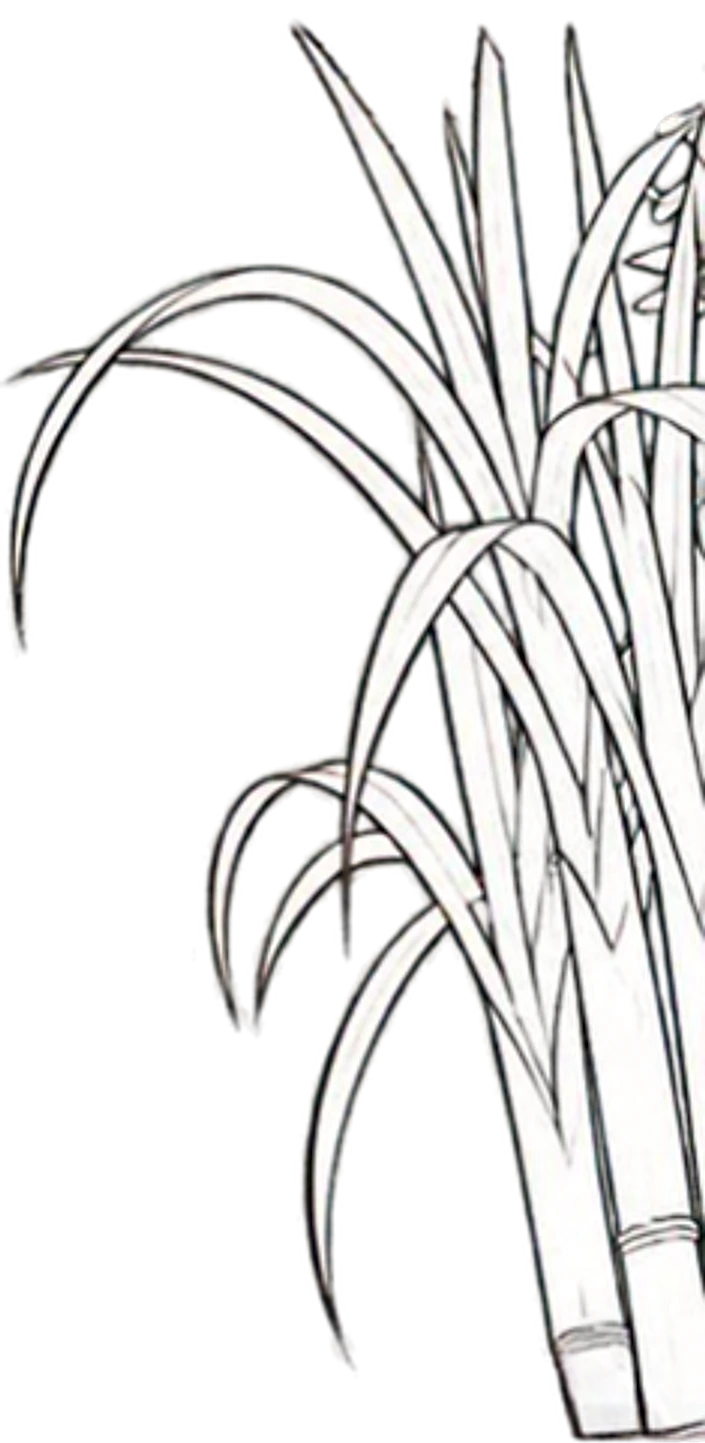
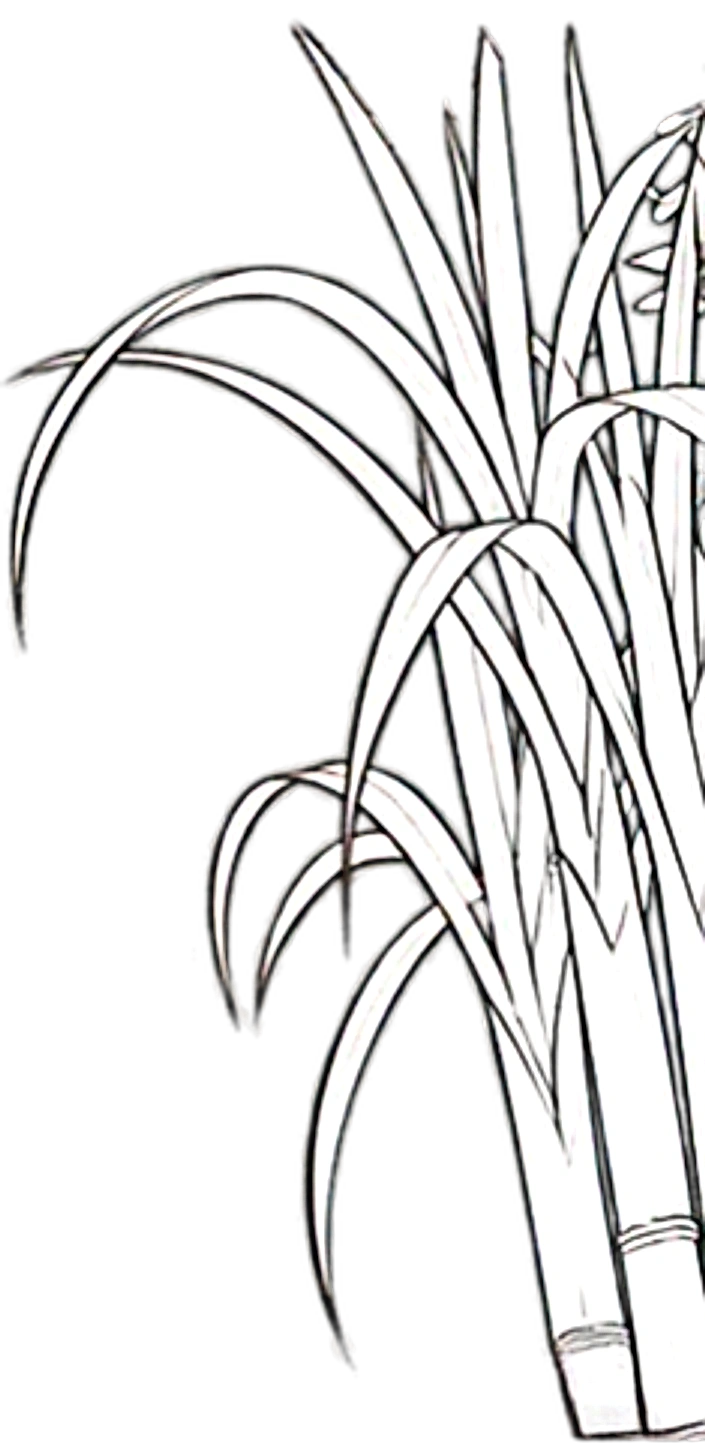
ggp

diff --git a/src/components/Hero.tsx b/src/components/Hero.tsx
@@ -30,7 +30,7 @@ export function Hero({ rawScroll, smoothScroll, episodes }: HeroProps) {
   const pv = (mv: MotionValue<number>) => (prefersReduced ? undefined : mv);
 
   return (
-    <div className="relative h-screen w-full overflow-hidden bg-[#067e7d]">
+    <div className="relative h-svh w-full overflow-hidden bg-[#067e7d]">
       {/* Flat brand ground */}
       <div className="absolute inset-0 z-0 bg-[#067e7d]" />
 
@@ -38,7 +38,7 @@ export function Hero({ rawScroll, smoothScroll, episodes }: HeroProps) {
       <div className="relative z-10 h-full w-full max-w-7xl mx-auto flex flex-col lg:flex-row items-center justify-center lg:justify-start px-6 md:px-12 overflow-visible">
 
         {/* Text Section: High-contrast white typography with crisp drop shadows */}
-        <div className="relative z-20 flex flex-col items-center lg:items-start text-center lg:text-left pt-16 lg:pt-0 w-full lg:max-w-3xl">
+        <div className="relative z-20 flex flex-col items-center lg:items-start text-center lg:text-left w-full lg:max-w-3xl">
           {/* Brand Heading (Logo inverted to pure white across all devices) */}
           <h1 className="mb-3 lg:mb-6">
             <Image
@@ -81,12 +81,13 @@ export function Hero({ rawScroll, smoothScroll, episodes }: HeroProps) {
 
       </div>
 
-      {/* Foreground: three plants along the bottom edge — hemp bottom left, sugarcane and
-          mushrooms together in the bottom right. Small enough to read as a border, so the
-          headline and the episode card keep the whole middle of the frame. */}
+      {/* Foreground: three plants along the bottom edge — hemp grounded at bottom left,
+          sugarcane and mushrooms together in the bottom right. Small enough to read as a
+          border, so the headline and the episode card keep the whole middle of the frame.
+          Sits behind every white element — logo, headline, buttons, card. */}
       <motion.div
         style={{ opacity: prefersReduced ? 1 : sceneOpacity }}
-        className="pointer-events-none absolute inset-0 z-[6] overflow-hidden"
+        className="pointer-events-none absolute inset-0 z-[1] overflow-hidden"
       >
         {/* eslint-disable @next/next/no-img-element -- line art with its own alpha, already the
             size it renders at. next/image would re-encode drawings that have nothing left to
@@ -94,18 +95,18 @@ export function Hero({ rawScroll, smoothScroll, episodes }: HeroProps) {
         {/* Sugarcane, bottom right: stood on the floor of the frame with its tips running
             off the right edge rather than hanging from the top. */}
         <motion.div style={{ y: pv(yCane) }} className="absolute inset-0">
-          <img src="/images/hero/frame/cane.webp" alt="" className="absolute -bottom-[2%] right-[-8%] sm:right-[-4%] lg:right-0 h-[44%] sm:h-[40%] lg:h-[52%] w-auto max-w-none" />
+          <img src="/images/hero/frame/cane.webp" alt="" className="absolute bottom-[12%] sm:bottom-[8%] right-[-8%] sm:right-[-4%] lg:right-0 h-[44%] sm:h-[40%] lg:h-[52%] w-auto max-w-none" />
         </motion.div>
 
         {/* Hemp, bottom left */}
         <motion.div style={{ y: pv(yHemp) }} className="absolute inset-0">
-          <img src="/images/hero/frame/hemp.webp" alt="" loading="lazy" className="absolute -bottom-[2%] left-[-8%] sm:left-[-3%] lg:left-0 h-[28%] sm:h-[26%] lg:h-[32%] w-auto max-w-none" />
+          <img src="/images/hero/frame/hemp.webp" alt="" loading="lazy" className="absolute bottom-[4%] sm:-bottom-[2%] left-0 h-[30%] sm:h-[32%] lg:h-[40%] w-auto max-w-none" />
         </motion.div>
 
         {/* Mushrooms, bottom right and nearest the viewer: they rise fastest and grow. Sat at
             the foot of the cane, so the right corner reads as one clump front to back. */}
         <motion.div style={{ y: pv(yMush), scale: pv(sMush) }} className="absolute inset-x-0 bottom-0 origin-bottom">
-          <img src="/images/hero/frame/mushrooms.webp" alt="" loading="lazy" className="absolute -bottom-[1%] right-[1%] sm:right-[2%] lg:right-[3%] w-[28%] sm:w-[15%] lg:w-[11%] h-auto" />
+          <img src="/images/hero/frame/mushrooms.webp" alt="" loading="lazy" className="absolute bottom-[13%] sm:bottom-[9%] right-[1%] sm:right-[2%] lg:right-[3%] w-[28%] sm:w-[15%] lg:w-[11%] h-auto" />
         </motion.div>
       </motion.div>
 

diff --git a/src/app/HomeClient.tsx b/src/app/HomeClient.tsx
@@ -24,7 +24,9 @@ export function HomeClient({ episodes }: { episodes: Episode[] }) {
   return (
     <div className="bg-background relative">
       {/* 1. Hero Layer: fixed slide-over on every breakpoint — content scrolls up over it */}
-      <div className="fixed inset-0 h-screen w-full z-0 lg:pointer-events-none">
+      {/* svh, not vh: on a phone the browser toolbar covers the bottom of a 100vh box, and that
+          is exactly where the hero plants stand. svh is the height that is always visible. */}
+      <div className="fixed inset-0 h-svh w-full z-0 lg:pointer-events-none">
         <Hero
           rawScroll={rawScroll}
           smoothScroll={smoothScroll}
@@ -33,7 +35,7 @@ export function HomeClient({ episodes }: { episodes: Episode[] }) {
       </div>
 
       {/* 2. Content Stack: starts one screen down, then slides over the fixed Hero */}
-      <div className="relative z-10 mt-[100vh]">
+      <div className="relative z-10 mt-[100svh]">
         {/* The sections now slide directly over the fixed Hero */}
         <LatestEpisode latest={latest} />
         <ScrollingMarquee />

diff --git a/scripts/hero-frame.js b/scripts/hero-frame.js
@@ -16,9 +16,9 @@ const SCALE = 3;
     const { width, height } = await img.metadata();
     const info = await img
       .resize(width * SCALE, height * SCALE, { kernel: 'lanczos3' })
-      // sigma ~1.2 suits line art: tightens the stroke edge without ringing the flat fills
-      .sharpen({ sigma: 1.2, m1: 0.6, m2: 2.2 })
-      .webp({ quality: 90, alphaQuality: 100 })
+      .sharpen({ sigma: 1.8, m1: 1.8, m2: 4.5 })
+      .linear(1.08, -8)
+      .webp({ quality: 95, alphaQuality: 100 })
       .toFile(OUT + name + '.webp');
     console.log(name, info.width + 'x' + info.height, Math.round(info.size / 1024) + 'KB');
   }

diff --git a/CHANGELOG.md b/CHANGELOG.md
@@ -50,9 +50,6 @@ Absolute dates (`YYYY-MM-DD`), 24-hour local time (`HH:MM`, IST), never
 | 2026-09-15 | 16:35 | deploy | Hero foreground shipped to production: pushed 91e4744 + 3238845 to main, Vercel git integration builds prj_Hgk9YVPBmDzRWAipd06y2n8WqgMW | Asmita asked to deploy | Claude | Live site; also carried Asmita's pending contact-copy and navbar-dot edits | 3238845 |
 | 2026-09-15 | 16:50 | episodes | Every YouTube thumbnail frame set to aspect-video: latest-episode section (was aspect-video lg:4/3), hero latest card and archive cards (both 16/10) | Asmita: thumbnails should be sized as YouTube thumbnails; 4/3 and 16/10 frames cropped a 16:9 source | Claude | LatestEpisode.tsx, ui/LatestPodcastCard.tsx, episodes/EpisodesClient.tsx | - |
 | 2026-09-16 | 12:30 | theme | Hero section background updated from #012620 to #038f90; removed painted Ghibli countryside image from PageHero and CollaborationCTA and set solid #038f90 | Asmita: use #038f90 as hero bg and remove the landscape image everywhere | Antigravity | - | `Hero.tsx`, `PageHero.tsx`, `CollaborationCTA.tsx` |
-
-
-
 | 2026-09-16 | 11:05 | hero | Generated grass.svg deleted and replaced by the supplied seaweed clump tiled along the bottom (14/17vh); a hemp bouquet added beside each sugarcane | Asmita supplied hemp and seaweed artwork and asked for seaweed in place of grass, hemp at the sides | Claude | Hero.tsx; also removed tropical_red/tropical_yellow/foliage_clump, byte-identical copies of the same three images | Hero.tsx |
 | 2026-09-16 | 11:20 | hero | Desktop sugarcane pushed out by 22% of its own width instead of sitting flush at left-0/right-0 | Asmita: canes not in the corner on desktop. The art has no transparent padding, but each stalk base sits 42-58% across its image, so flush placement left the trunk ~180px inside the edge | Claude | Hero.tsx; mobile shift unchanged at 50% | Hero.tsx |
 | 2026-09-16 | 11:30 | hero | Hemp bouquets moved into the corners with the cane: inset 6%/11% down to 1%/3% | Asmita: hemp should sit together with the sugarcane. After the cane moved out by 22%, hemp at 11% stood between it and the headline | Claude | Hero.tsx | Hero.tsx |
@@ -63,16 +60,13 @@ Absolute dates (`YYYY-MM-DD`), 24-hour local time (`HH:MM`, IST), never
 | 2026-09-16 | 12:25 | hero | Hemp wedged into the bottom corners: bottom 7/9vh to -2/-3vh, sides 1%/3% to -3%/-2%, so both edges crop it | Asmita: put the hemps in the lower edges, very stuck | Claude | Hero.tsx | Hero.tsx |
 | 2026-09-16 | 12:40 | deploy | Pushed 9a04e39 (seaweed + hemp hero) and 0aa269a (flat teal page headers and open call) to main; Vercel builds production | Asmita asked to deploy | Claude | Live site | 0aa269a |
 | 2026-09-16 | 15:25 | hero | Removed trust strip ("Sponsored by Pakka • 117 Episodes • YouTube · Spotify · Apple") below hero CTA buttons | Asmita: remove the trust strip | Antigravity | - | `Hero.tsx` |
-
 | 2026-09-16 | 13:10 | hero | Foreground cut back to the reference composition: hemp bouquets removed, seaweed top edge faded into the background, cane sway slowed to 11/12.5s at under one degree | Asmita: the foreground reads cluttery. Six competing objects at four sway speeds, and tropical red/yellow bouquets in a two-tone green scene | Claude | Hero.tsx; hemp art left in place, unreferenced | Hero.tsx |
 | 2026-09-16 | 15:35 | hero | Foreground art redrawn in-house: cane_a/cane_b, reeds and flock SVGs replace the supplied PNGs, generator kept at scripts/hero-art.js | Asmita: same layout, source the images yourself. SVG holds the exact palette, keeps real alpha and tiles seamlessly | Claude | Hero.tsx; supplied PNGs left in place, now unreferenced; bed back to a single layer | scripts/hero-art.js |
 | 2026-09-16 | 15:50 | hero | Declutter pass reverted: hemp back in both corners in front of the reed bed, cane sway back to 7/7.5s at 1.4-1.8 degrees. Generated SVG art kept | Asmita asked to revert, choosing to undo the declutter only | Claude | Hero.tsx; horizon fade left in place | Hero.tsx |
 | 2026-09-16 | 15:42 | hero | Removed dark gradient horizon fade overlay (from-transparent via-[#012620]/30 to-[#012620]/85) from the reed bed | Asmita: remove this shadow | Antigravity | - | `Hero.tsx` |
-
 | 2026-09-16 | 16:10 | hero | Hemp up from 16/22vh to 22/30vh; second cane pair added behind the corner plants (cane_c/cane_d, new from the same generator, transparent SVG), at 36/42vh and 80% opacity on the slow plane | Asmita: bigger hemp, more sugarcane, artwork made here with no background | Claude | Hero.tsx, scripts/hero-art.js; mid-ground pair hidden below sm | scripts/hero-art.js |
 | 2026-09-16 | 16:45 | hero | Hero.tsx restored from 9a04e39, the deployed version: supplied cane and hemp PNGs, three-layer seaweed bed, birds.png, 7/7.5s sway. Drops the in-house SVG plants, the mid-ground cane pair and the horizon fade | Asmita asked to go back to the deployed hero | Claude | Hero.tsx only; generated SVGs and scripts/hero-art.js left on disk, unreferenced | 9a04e39 |
 | 2026-09-16 | 16:14 | content | Copy adjustments: added comma after 'Each episode', changed 'something that has new value' to 'resources with new value', and 'real science and plain talk' in AboutClient; rephrased 'Garbage is not inherently bad and with the right people...' in AboutPodcast | Feedback from screenshot: copy adjustments for MK approval | Antigravity | - | `AboutClient.tsx`, `AboutPodcast.tsx` |
-
 | 2026-09-16 | 17:20 | episodes | Per-episode Apple Podcasts links now fetched live from itunes.apple.com/lookup (new src/lib/apple.ts), matched to episodes by title and date, with the committed scrape as fallback. Latest-episode section gained direct Spotify and Apple links | The RSS carries no Apple link at all, so per-episode Apple links stopped at the April 2026 scrape. Verified live: 117/117 episodes now resolve | Claude | apple.ts, feed.ts, get-episodes.ts, LatestEpisode.tsx, feed.test.mts | src/lib/apple.ts |
 | 2026-09-16 | 17:55 | episodes | The monthly "Around the World of Packaging" round-up no longer derives a guest | Asmita: Sargam is not the guest. The title takes the interview shape, so the parser cut "with Sargam & Kumar" at the ampersand and put "Sargam" - a first name, no surname - on 13 episodes and on the guests page | Claude | feed.ts, feed.test.mts; also clears Alex Moore from 12 older segments | src/lib/feed.ts |
 | 2026-09-16 | 17:55 | episodes | Latest-episode buttons share one row from sm up and go full width when stacked; Spotify/Apple links became chips instead of underlined sentences | Asmita: the two links should not look like that, and the buttons should share a line or be full width | Claude | LatestEpisode.tsx | LatestEpisode.tsx |
@@ -108,3 +102,13 @@ Absolute dates (`YYYY-MM-DD`), 24-hour local time (`HH:MM`, IST), never
 | 2026-09-23 | 13:25 | hero | Mobile hero content vertically centred: container lg:h-full to h-full plus justify-center (lg:justify-start keeps the desktop row left aligned), the 26vh navbar spacer div deleted, text block padding -mt-4/pt-3/pb-24/md:pt-10/md:pb-32 reduced to pt-16 lg:pt-0 | Asmita: it is not coming in the middle, vertically center align the content. The spacer plus asymmetric padding was placing the block by hand instead of centring it | Claude | Hero.tsx; desktop layout unchanged, pt-16 keeps mobile clear of the fixed navbar | Hero.tsx |
 | 2026-09-23 | 14:10 | feed | episode-videos.ts regenerated from a fresh channel scrape, 370 to 378 videos, 116/118 episodes matched. Three new entries: ep 105 Bemporad rxgtXGNkxsg, the Aug 2026 round-up PPWpXwZfv44, ep 104 Malpani DyGxniWA44Y | Asmita: live is showing a thumbnail that is not the actual one. Those three episodes had no committed video, so they depended on the YouTube channel RSS succeeding at build time - and it returned 404 during the build, dropping them to the generic show art | Claude | src/lib/episode-videos.ts, scripts/channel-videos.json; verified by parsing the live feed with zero channel videos, all three now resolve to their own thumbnail | src/lib/episode-videos.ts |
 | 2026-09-23 | 14:10 | tests | Three feed tests moved off real episode titles onto invented ones (Jane Doe, Alex Roe) | Their slugs entered EPISODE_VIDEOS with the regenerated table, so the override answered them before the matcher ran and the tests passed on the table instead of the logic they cover | Claude | src/lib/feed.test.mts; 24/24 pass | src/lib/feed.test.mts |
+| 2026-09-23 | 14:35 | hero | pt-16 lg:pt-0 removed from the hero text block | Asmita: the logo and the contents should be vertically center. justify-center centres the block, but 4rem of padding inside it pushed the visible content about 2rem below true centre | Claude | Hero.tsx; the block no longer reserves navbar space, so a very short landscape viewport could bring the logo close to the navbar | Hero.tsx |
+| 2026-09-24 | 11:05 | hero | Foreground plant layer z-[6] to z-40, above the white logo, text, buttons and episode card | Asmita: make the foreground be shifted upwards the white elements | Claude | Hero.tsx; layer is pointer-events-none so the buttons and card stay clickable, but plants now overlap white text where they meet | Hero.tsx |
+| 2026-09-24 | 11:30 | hero | Foreground plant layer z-40 back to z-[1], behind the logo, headline, buttons and card. All three plants raised off the floor: cane and hemp -bottom-[2%] to bottom-[8%], mushrooms -bottom-[1%] to bottom-[9%] | Asmita: send to back everything and shift it upwards. Reverts the z-40 lift from 11:05 | Claude | Hero.tsx; plants no longer bleed off the bottom edge, so a short viewport shows a gap of teal below them | Hero.tsx |
+| 2026-09-24 | 11:40 | docs | Blank lines removed from inside this file's Log table (7 of them, from 2026-09-16 onward) | site_changelog_xlsx.py stops parsing at the first non-pipe line, so the rollup had been truncating this project at 11 rows since 2026-09-16 | Claude | CHANGELOG.md; site-changelog.xlsx now carries all 65 rows, total 113 to 168 | _brain/tools/site_changelog_xlsx.py |
+| 2026-09-24 | 11:55 | hero | Left-corner sugarcane restored: parallax/sugarcane_left.webp added back to the bottom left at h-34/32/42%, on the same yCane plane as the right cane, with hemp kept in front of it | Asmita: where is the side corn thing, left side mei tha na. 6e042ad had dropped it when the three supplied drawings replaced the corner pair | Claude | Hero.tsx; the left corner now carries two plants, so a narrow phone shows more foreground there than before | public/images/hero/parallax/sugarcane_left.webp |
+| 2026-09-24 | 12:10 | hero | Left-corner plant switched from the green parallax/sugarcane_left.webp to a mirrored copy of the white frame/cane.webp (-scale-x-100) | Asmita: bring that white corn like thing back. The restored asset averaged RGB (112,143,46) against (193,192,191) for the three line drawings, so it read as painted art beside line art | Claude | Hero.tsx; the two canes are now the same drawing, so the corners are symmetrical rather than two distinct plants | public/images/hero/frame/cane.webp |
+| 2026-09-25 | 10:20 | hero | Mirrored left cane removed; hemp is the left corner again, up from h-28/26/32% to h-40/36/46% | Asmita sent GP (23).png, the source of frame/hemp.webp - the plant meant by "white corn like thing" was hemp all along, not a second sugarcane. Reverts 2026-09-24 11:55 and 12:10 | Claude | Hero.tsx; the left corner is one plant again, noticeably taller than before yesterday | public/images/hero/frame/hemp.webp |
+| 2026-09-25 | 15:10 | hero | Hemp brought down to the bottom left corner: bottom-[8%] changed to -bottom-[2%] left-0 with responsive height h-[30%] sm:h-[32%] lg:h-[40%] | Asmita sent hemp image and asked to "bring this image to bottom left" - it had been floating 8% off the floor and overlapping the headline and buttons | Antigravity | Hero.tsx; hemp is firmly grounded in the bottom-left corner clear of copy and buttons | public/images/hero/frame/hemp.webp |
+| 2026-09-25 | 15:20 | hero | Foreground plants sharpened via updated hero-frame.js (stronger unsharp mask + crisp contrast); mobile positioning raised upwards (cane bottom-[12%], hemp bottom-[4%], mushrooms bottom-[13%]) | Asmita: make the foreground images sharpened and somewhat upwards in mobile view | Antigravity | Hero.tsx, scripts/hero-frame.js; public/images/hero/frame/*.webp re-encoded with crisp lines, mobile plants sit clear of bottom curve | public/images/hero/frame/*.webp |
+
